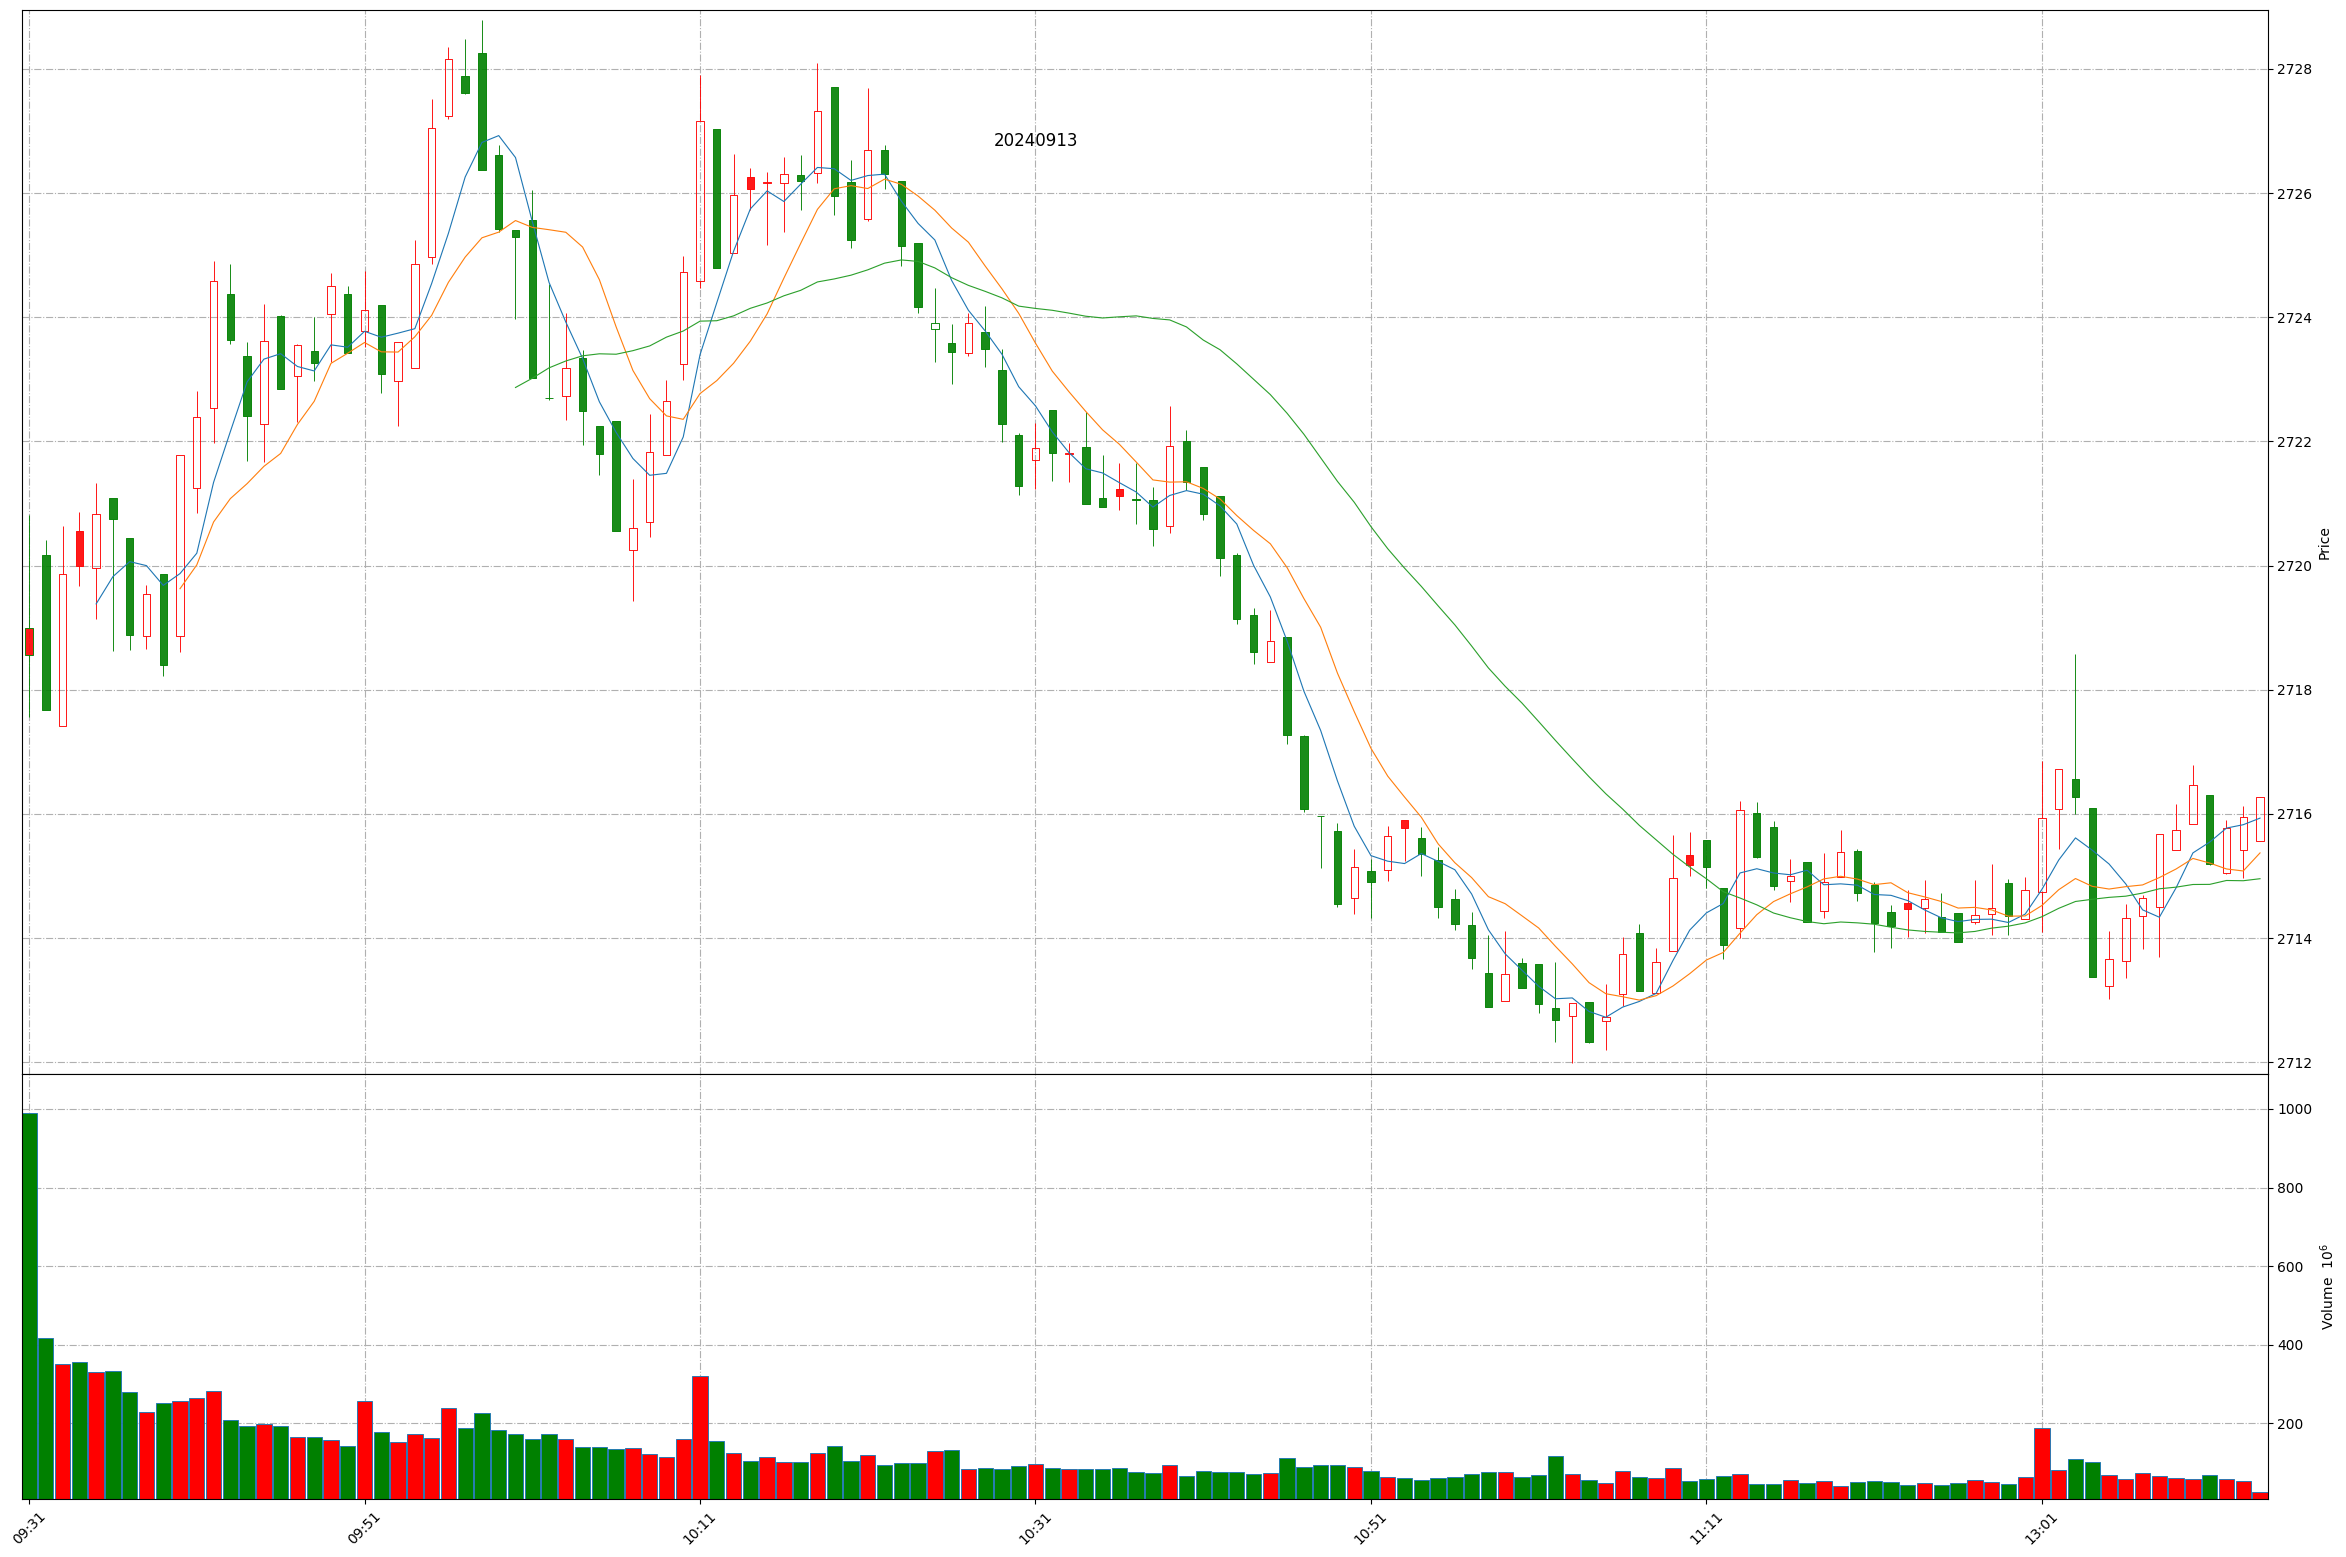
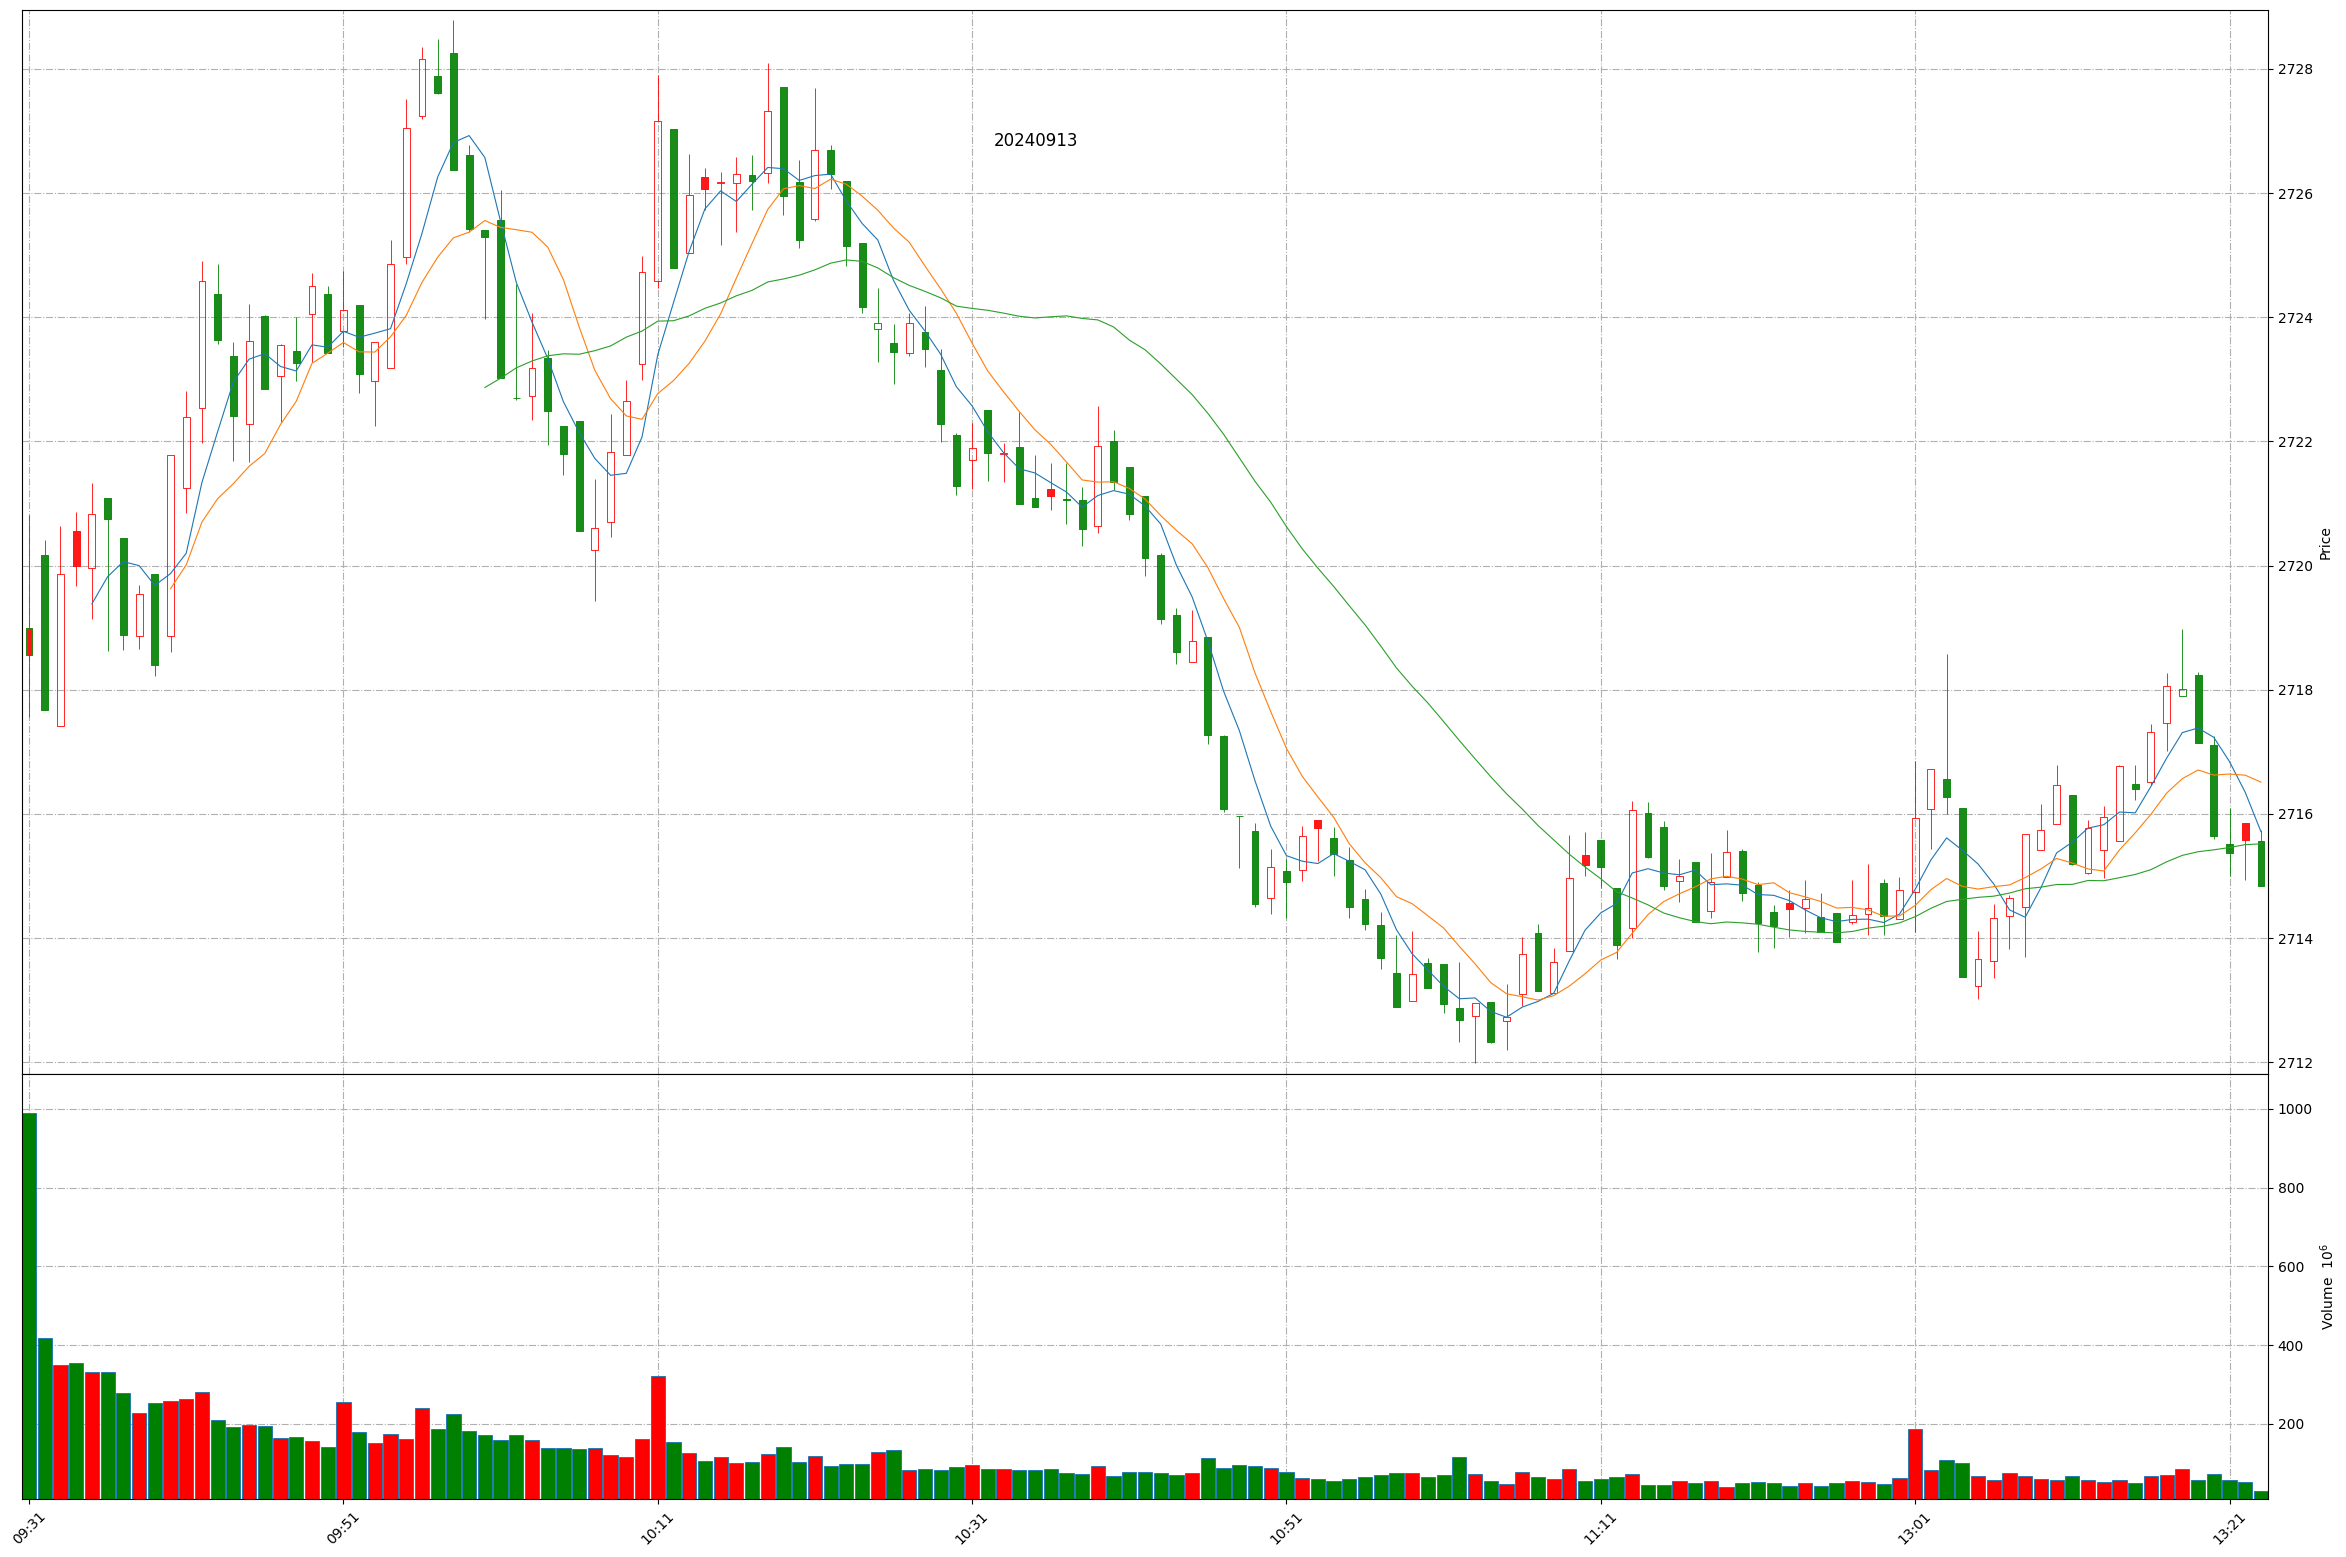
Github action update at 2024-09-13 13:22:56.

Changed region(s): [[0.0311, 0.0308, 0.9646, 0.6782], [0.0, 0.8632, 0.9646, 0.9865], [0.0, 0.4008, 0.0311, 0.4316]]

diff --git a/README.md b/README.md
@@ -1,11 +1,11 @@
 
 # Daily-A-share-market-quotes 每日 A 股指数（5min 更新）- 20240913
 
-### 上证指数 20240913 13:13
+### 上证指数 20240913 13:22
 ![](./fig/2024/9/20240913-sh000001.png)
 
-### 深证成指 20240913 13:13
+### 深证成指 20240913 13:22
 ![](./fig/2024/9/20240913-sz399001.png)
 
-### 北证50 20240913 13:13
+### 北证50 20240913 13:22
 ![](./fig/2024/9/20240913-bj899050.png)
